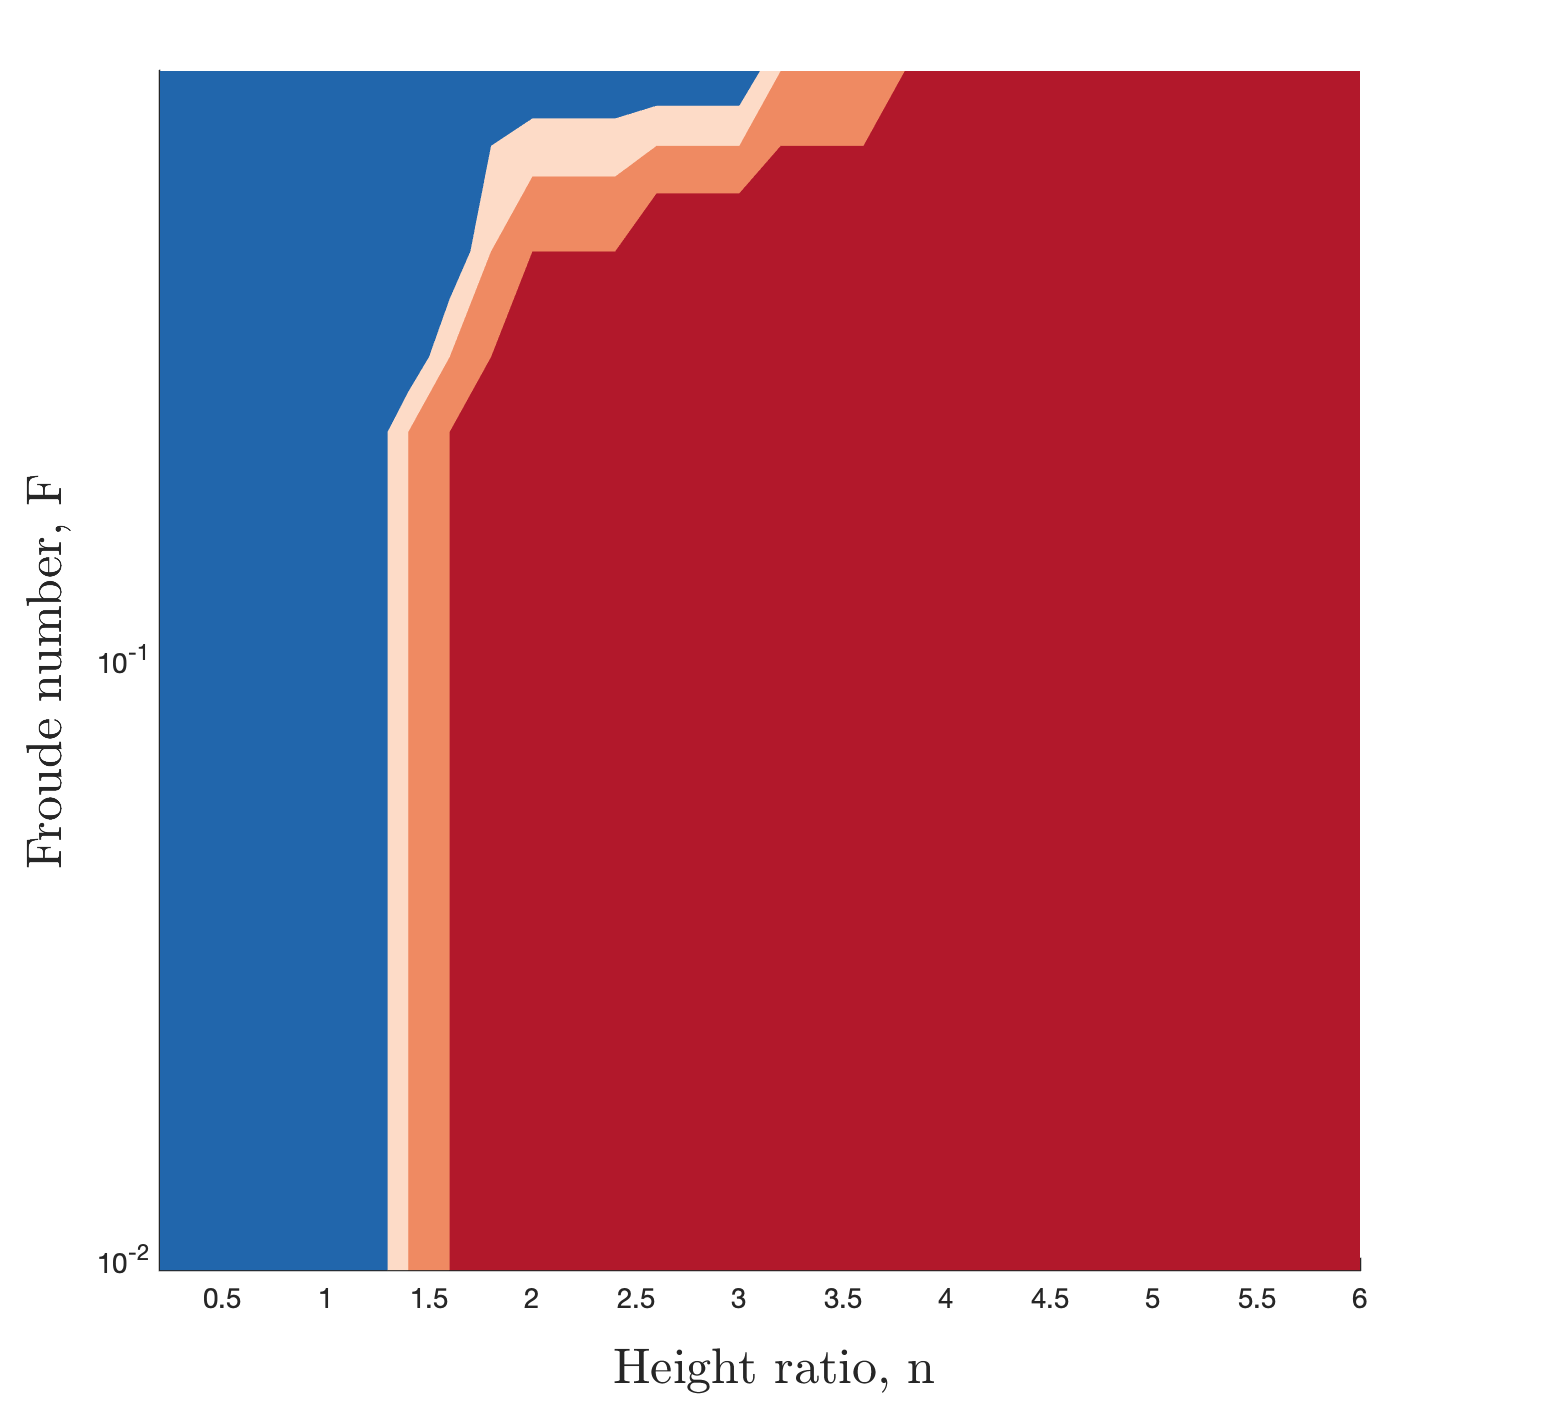
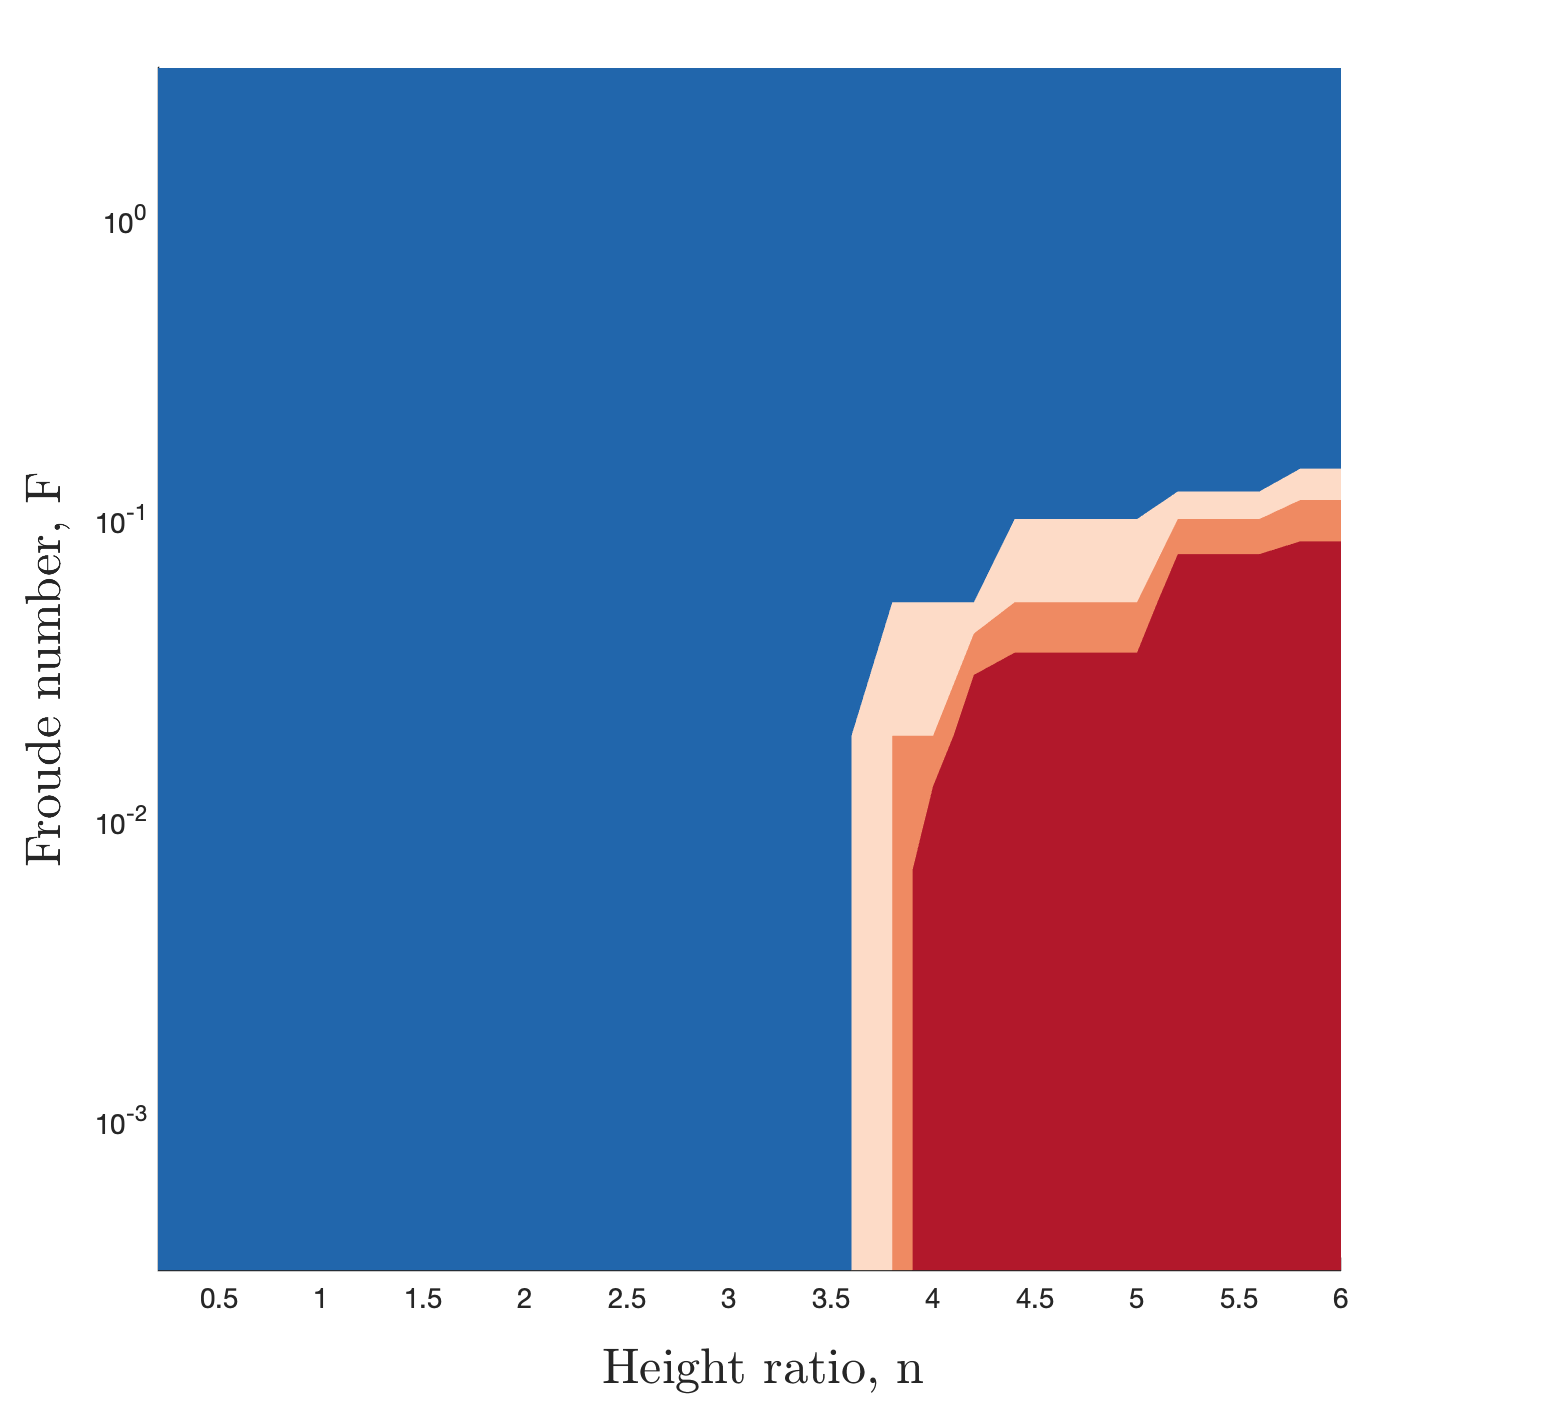
Adding the no-slip condition

diff --git a/Free Slip LSA/Jcompile.m b/Free Slip LSA/Jcompile.m
@@ -1,9 +1,12 @@
 %%%%%%%%%%%%%%%%%%%%%%%%%%%%%%%%%%%%%%%%%%%%%%%%%%%%%%%%%%%%%%%%%%%%%%
 %compiler for plotting J
-
-
-fs = 1;
-[J,GG] = Jvalue(fs);
+clear all
+close all
+%fs = 1 is free slip
+%fs = 2 is no slip
+%fs = 0 is constant slip
+fs = 2;
+[J,GG,U_u,U_l] = Jvalue(fs);
 if fs == 1
     n     = 5;
     rho_l = 3000;
@@ -11,20 +14,19 @@ if fs == 1
     r     = rho_l/rho_u;
     du    = 1;
     dl    = du*n;
-    K_p   = 0;
-    mu_l  = 10^3;
-    U_p   = .2:.2:20;
+    mu_u  = 10^3;
     g     = 9.8;
-    mm     = [.1 .2 .33];
+    mm     = [.95 .9 .85];
+    K_p   = logspace(2,6,10);
+    Ku_p   =  K_p ;
+    U_p   = Ku_p.*du^2./mu_u;
+    F     = sqrt((rho_l-rho_u)./rho_u*g*du./U_p.^2);
     
     for ll = 1:numel(mm)
         m     = mm(ll);
-        mu_u  = mu_l./m;
+        mu_l  = mu_u.*m;
         nn = 0;
-        K_p   = 1*10e2:10e2:10e4;
-        Ku_p   =  K_p ;
-        U_p   = Ku_p.*du^2./mu_u;
-        F     = sqrt((rho_l-rho_u)./rho_u*g*du./U_p.^2);
+        
         for n = .2:.2:6
             nn = nn + 1;
             dl    = du*n;
@@ -48,8 +50,51 @@ if fs == 1
         else
             JJJ3 = double(JJ3);
         end
-    end  
-else
+    end
+elseif fs == 2
+    n     = 5;
+    rho_l = 3000;
+    rho_u = 2970;
+    r     = rho_l/rho_u;
+    dl    = 1;
+    du    = dl/n;
+    mu_l  = 10^3;
+    g     = 9.8;
+    mm     = [.1 .2 .33];
+    K_p   = logspace(2,6,10);
+    Kl_p   =  K_p ;
+    U_p   = Kl_p.*dl^2./mu_l;
+    F     = sqrt((rho_l-rho_u)./rho_u*g*dl./U_p.^2);
+    
+    for ll = 1:numel(mm)
+        m     = mm(ll);
+        mu_u  = mu_l./m;
+        nn = 0;
+        
+        for n = .2:.2:6
+            nn = nn + 1;
+            du    = dl/n;
+            Ku_p   =  K_p;
+            if ll==1
+                JJ1(nn,:) = subs(J*10^4);
+            elseif ll == 2
+                JJ2(nn,:) = subs(J*10^4);
+            else
+                JJ3(nn,:) = subs(J*10^4);
+            end
+        end
+        nn = 0;
+        n = .2:.2:6;
+        du    = dl./n;
+        if ll ==1
+            JJJ1 = double(JJ1);
+        elseif ll == 2
+            JJJ2 = double(JJ2);
+        else
+            JJJ3 = double(JJ3);
+        end
+    end
+elseif fs == 0
     n     = 5;
     rho_l = 3000;
     rho_u = 2970;
@@ -111,4 +156,49 @@ IJ3 = JJJ3./abs(JJJ3);
 IJ3(IJ3<0) = 0;
 IJ = IJ1 + IJ2 + IJ3;
 JplotRD(N,FF,IJ,fs)
+
+%plot steady state
+    n     = 5;
+    rho_l = 3000;
+    rho_u = 2970;
+    r     = rho_l/rho_u;
+    du    = 1;
+    dl    = du*n;
+    K_p   = 0;
+    mu_l  = 10^3;
+    g     = 9.8;
+    mm     = [.1 .2 .33];
+    if fs == 1 
+       K_p   = 10^5;
+       Ku_p   =  K_p ;
+       U_p   = Ku_p.*du^2./mu_u;
+       F     = sqrt((rho_l-rho_u)./rho_u*g*du./U_p.^2);
+    elseif fs == 2
+       K_p   = 10^5;
+       Ku_p  =  K_p ;
+       Kl_p  = K_p;
+       U_p   = Kl_p.*dl^2./mu_l;
+       F     = sqrt((rho_l-rho_u)./rho_u*g*dl./U_p.^2);
+    elseif fs == 0
+        K_p  = 0;
+        U_p  = 10;
+        F     = sqrt((rho_l-rho_u)./rho_u*g*du./U_p.^2);
+    end
+
+    y     = -n:.01:1;
+    for ll = 1:numel(mm)
+        m     = mm(ll);
+        mu_u  = mu_l./m;
+        gamma = n.^3.*r./m.^2;
+        if fs == 1 
+            Kl_p   =  K_p./gamma ;
+        elseif fs == 2 || fs ==0
+            Kl_p = Ku_p;
+        end
+        
+        U_u_(ll,:) = subs(U_u);
+        U_l_(ll,:) = subs(U_l);
+    end
+  JplotSS(U_u_,U_l_,y,fs)
+
 

diff --git a/Free Slip LSA/Jvalue.m b/Free Slip LSA/Jvalue.m
@@ -2,7 +2,7 @@
 % Symbolicly solving the System of Equations to get to a form of 
 % J in Yih 1967
 %%%%%%%%%%%%%%%%%%%%%%%%%%%%%%%%%%%%%%%%%%%%%%%%%%%%%%%%%%%%%%%%%%%%%%%%%%%
-function [J, GG] = Jvalue(fs)
+function [J, GG, U_u, U_l] = Jvalue(fs)
 %input: fs is free slip surface or set velocity?
 %output: J form in Yih 1967 and GG a simplified text form of the equation
 
@@ -10,7 +10,7 @@ function [J, GG] = Jvalue(fs)
 syms m n c du U_p K_p mu_u Kl_p Ku_p dl mu_l...
     Au Bu Cu Du Al Bl Cl Dl c0p Ra r alph ...
     au al F DeltaBu DeltaCu DeltaDu DeltaBl DeltaCl DeltaDl...
-    bu bl hu_1 dhu_1 d2hu_1 hl_n dhl_n
+    bu bl hu_1 dhu_1 d2hu_1 hl_n dhl_n y
 
 
 
@@ -25,16 +25,26 @@ if fs == 1
         fs_7; %<=free slip?
         1   0  0  0   0 0;
         0   0  0   1   0 0];
-else
+elseif fs == 0
     fs_7 = [1 1 1 0 0 0];
     b_7 = [0; 0; 0; 1; 0; (-du^2*K_p)/(2*U_p*mu_u)];
     %       Au au bu Al   al bl
     A_7  = [0   0  1  0   0 -1; 
         0   1  0  0   -m 0;
         0   0  0  n^2 -n 1;
-        fs_7; %<=free slip?
+        fs_7; %<=constant slip
         1   0  0  -m   0 0;
         1   0  0   0   0 0];
+elseif fs == 2
+    fs_7 = [1 1 1 0 0 0];
+    b_7 = [0; 0; 0; 0; -(du^2*Ku_p)/(2*U_p*mu_u); (-du^2*Kl_p)/(2*U_p*mu_l)];
+    %       Au au bu Al   al bl
+    A_7  = [0   0  1  0   0 -1;        %@y=0 b_u = b_l
+        0   1  0  0   -m 0;            %@y=0 mu_u dU_udy = mu_l dU_ldy
+        0   0  0  n^2 -n 1;            %@y = -n U_l = 0
+        fs_7; %<=no slip,               @y=1, U_u = 0
+        1   0  0  0   0 0;             %A_u = -K_udu/mu_u/U
+        0   0  0   1   0 0];           %A_l = -K_ldu/mu_l/U
 end
 
     
@@ -44,16 +54,18 @@ Al = M_7(4); al = M_7(5); bl = M_7(6);
 %%%%%%%%%%%%%%%%%%%%%%%%%%equation 33%%%%%%%%%%%%%%%%%%%%%%%%%%%%%%%%%%%%%%
 %short form where we assume E=1, 
 %we assume E=1 because E does not appear in the eigenvalue problem
-if fs ==1
-    fs_33 = [0  1 3  0   0    0 0];
-else
+if     fs ==1
+    fs_33 = [0  1 3 0 0 0 0];
+elseif fs == 0
+    fs_33 = [1 2 3 0 0 0 0];
+elseif fs == 2
     fs_33 = [1 2 3 0 0 0 0];
 end
 %%%%Bu Cu Du Bl Cl   Dl E
 A_33 = [0  1 0  0  -m    0 0;
      0  0 1  0   0   -m 0;
      1  1 1  0   0    0 1;
-     fs_33; %<free slip condition
+     fs_33; %<free slip, const slip, no slip condition?
      0  0 0 -n   n^2 -n^3 1;
      0  0 0  1  -2*n 3*n^2 0];
 %for what c' would give you null results
@@ -77,9 +89,11 @@ d2hu_1 = Au*Du/5   + au*Du/2  + (-Au*Bu+au*Cu-3*c0p*Du)/3  -(Cu*c0p + Au);
 hl_n   = Al*Dl*(-n)^7/210 + al*Dl*(-n)^6/60 + (-Al*Bl+al*Cl-3*c0p*Dl)*(-n)^5/60 -(Cl*c0p + Al)*(-n)^4/12;
 dhl_n   = Al*Dl*(-n)^6/30 + al*Dl*(-n)^5/10 + (-Al*Bl+al*Cl-3*c0p*Dl)*(-n)^4/12 -(Cl*c0p + Al)*(-n)^3/3;
 
-if fs == 1
+if     fs == 1
     fs_3840 = [0       2       6        0       0        0   1i*alph*Ra*d2hu_1];
-else
+elseif fs == 0
+    fs_3840 = [1       2       3        0       0        0   1i*alph*Ra*dhu_1];
+elseif fs == 2
     fs_3840 = [1       2       3        0       0        0   1i*alph*Ra*dhu_1];
 end
 %%%%%%%% DeltaBu DeltaCu DeltaDu DeltaBl DeltaCl DeltaDl contants
@@ -105,3 +119,5 @@ ci = -(DeltaBu - DeltaBl)*c0p^2/(1i*(al-au));
 J = ci/(Ra*alph);
 G = J*(au-al)*m/c0p^2;
 GG = simplify(G);
+U_u = Au.*y.^2 + au.*y + bu;
+U_l = Al.*y.^2 + al.*y + bl;

diff --git a/Free Slip LSA/JplotRD.m b/Free Slip LSA/JplotRD.m
@@ -9,8 +9,10 @@ function JplotRD(N,FF,IJ,fs)
 % set printing options
 if fs == 1
 str       = {'Regime_FreeSurface'};
-else
-    str   = {'Regime_NoSlip'};
+elseif fs == 0
+    str   = {'Regime_ConstSlip'};
+elseif fs == 2
+    str  = {'Regime_NoSlip'};
 end
 figname   = char(strcat(str(1)));
 format    = '-dpng';
